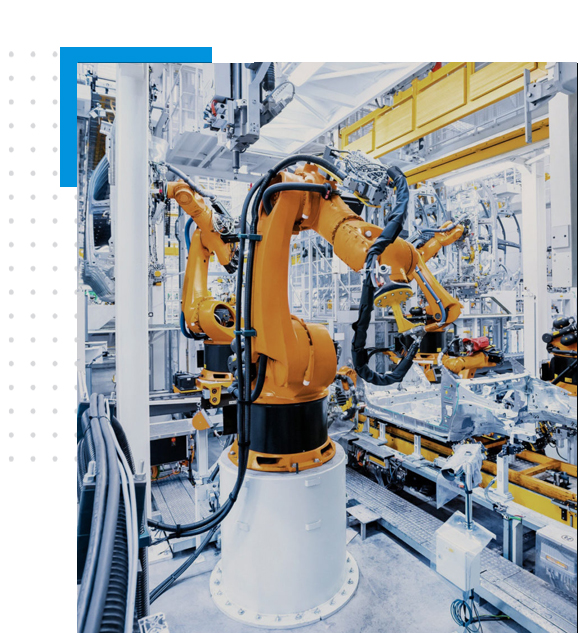
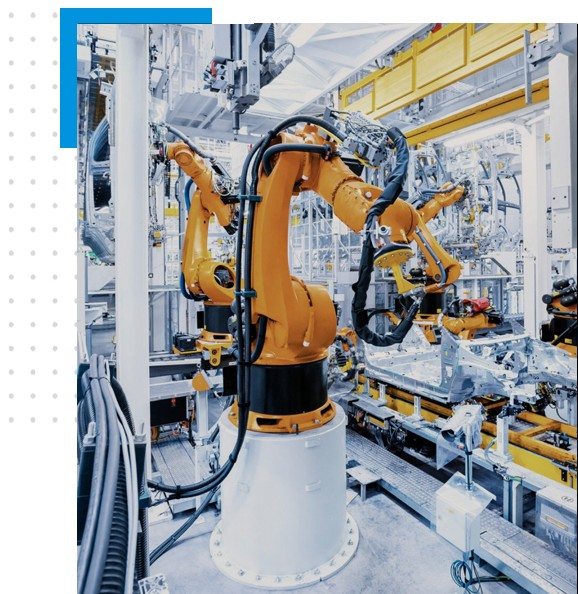
About Page Bug Fix

diff --git a/src/styles/About.css b/src/styles/About.css
@@ -1,6 +1,7 @@
+
 /* ================= ABOUT WRAPPER ================= */
 .about-section{
-  background:#f8fbff;
+  background:#ffffff;
   padding:100px 0;
   font-family:"Poppins",sans-serif;
 }
@@ -16,13 +17,11 @@
   display:grid;
   grid-template-columns:1fr 1fr;
   gap:60px;
-  align-items:center;
+  align-items:start;
 }
 
 .about-img img{
   width:100%;
-  border-radius:20px;
-  box-shadow:0 25px 60px rgba(0,0,0,0.15);
   transition:.4s;
 }
 
@@ -31,34 +30,30 @@
 }
 
 .about-content p{
-  color:#6b7280;
+  color:#292929;
   margin-top:15px;
   line-height:1.8;
   text-align:justify;
   hyphens:auto;
   font-size:15.5px;
+  font-family: "Poppins", sans-serif;
 }
 
 /* ================= TITLES ================= */
 .about-title{
-  font-size:42px;
+  font-size:30px;
   font-weight:700;
-  color:#0a58ca;
-  margin-bottom:15px;
+  color:#0070b1;
+  margin: 0;
+  margin-bottom:25px;
+  padding: 0;
+  font-family: "Outfit", sans-serif;
 }
 
-.about-subtitle{
-  font-size:42px;
-  color:#0a58ca;
-  font-weight:600;
-  margin-bottom:10px;
-  display:block;
-  letter-spacing:.5px;
-}
 
 /* ================= FEATURES ================= */
 .about-features{
-  background:linear-gradient(135deg,#0a58ca,#0d6efd);
+  background:linear-gradient(135deg,#0048ce,#003380);
   padding:100px 0;
 }
 
@@ -81,6 +76,8 @@
   text-align:center;
   min-height:340px;
   justify-content:flex-start;
+  font-family: "Poppins", sans-serif;
+  text-align: justify;
 }
 
 .about-feature-card:hover{
@@ -133,6 +130,7 @@
   background:#f9fbff;
   box-shadow:0 15px 40px rgba(0,0,0,0.08);
   transition:.4s;
+  font-family: "Poppins", sans-serif;
 }
 
 .about-stat-card:hover{
@@ -262,6 +260,7 @@
   border-radius: 20px;
   white-space: nowrap;
   box-shadow: 0 5px 15px rgba(0,0,0,0.15);
+  font-family: "Poppins", sans-serif;
 }
 
 /* TEXT */
@@ -274,6 +273,10 @@
   font-size: 14.5px;
   line-height: 1.6;
   color: #6b7280;
+}
+
+.about-timeline-content h3{
+  font-family: "Poppins", sans-serif;
 }
 /* ================= RESPONSIVE ================= */
 
@@ -338,4 +341,46 @@
     left: 20px;
     transform: none;
   }
+}
+
+
+/* ========== ABOUT TITLE BAR ============ */
+
+.about-titlebar{
+  width: 100%;
+  height: 25vh;
+  position: relative;
+}
+
+.about-titlebar .about-title-img-cont{
+  background-color: black;
+  width: 100%;
+  height: 100%;
+}
+
+.about-titlebar .about-title-img-cont img{
+  width: 100%;
+  height: 100%;
+  object-fit: cover;
+  filter: brightness(0.2);
+}
+
+.about-title-p-cont{
+  position: absolute;
+  top: 0;
+  bottom: 0;
+  left: 100px;
+  display: flex;
+  justify-content: center;
+  align-items: center;
+}
+
+.about-title-p-cont p{
+  color: white;
+  font-size: 32pt;
+  font-weight: bold;
+  font-family: "Poppins", sans-serif;
+  border-left: 10px solid white;
+  margin: 0;
+  padding: 0px 30px;
 }

diff --git a/src/components/About/AboutTitleBar.jsx b/src/components/About/AboutTitleBar.jsx
@@ -1,0 +1,19 @@
+import "../../styles/About.css";
+import AboutTitleImg from "../../assets/About/titleImg.png";
+
+function AboutTitleBar() {
+  return(
+    <>
+        <div className="about-titlebar">
+            <div className="about-title-img-cont">
+                <img src={AboutTitleImg}/>
+            </div>
+            <div className="about-title-p-cont">
+                <p>ABOUT US</p>
+            </div>
+        </div>
+    </>
+  );
+}
+
+export default AboutTitleBar;

diff --git a/src/pages/About.jsx b/src/pages/About.jsx
@@ -2,10 +2,12 @@ import AboutIntro from "../components/About/AboutIntro";
 import Timeline from "../components/About/Timeline";
 import Features from "../components/About/Features";
 import Stats from "../components/About/Stats";
-import "../styles/about.css";
+import "../styles/About.css";
+import AboutTitleBar from "../components/About/AboutTitleBar";
 function About() {
   return (
     <>
+      <AboutTitleBar/>
       <AboutIntro />
       <Timeline />
       <Stats/>

diff --git a/src/index.css b/src/index.css
@@ -1,3 +1,9 @@
+@import url('https://fonts.googleapis.com/css2?family=Outfit:wght@100..900&family=Poppins:ital,wght@0,100;0,200;0,300;0,400;0,500;0,600;0,700;0,800;0,900;1,100;1,200;1,300;1,400;1,500;1,600;1,700;1,800;1,900&display=swap');
+
+
 body{
   margin:0;
+}
+p{
+  font-family: "Poppins", sans-serif;
 }

diff --git a/src/components/About/AboutIntro.jsx b/src/components/About/AboutIntro.jsx
@@ -10,7 +10,6 @@ function AboutIntro() {
     </div>
 
     <div className="about-content" data-aos="fade-left">
-      <span className="about-subtitle">Georson Tech Pvt. Ltd</span>
       <h2 className="about-title">ABOUT US</h2>
 
           <p>
